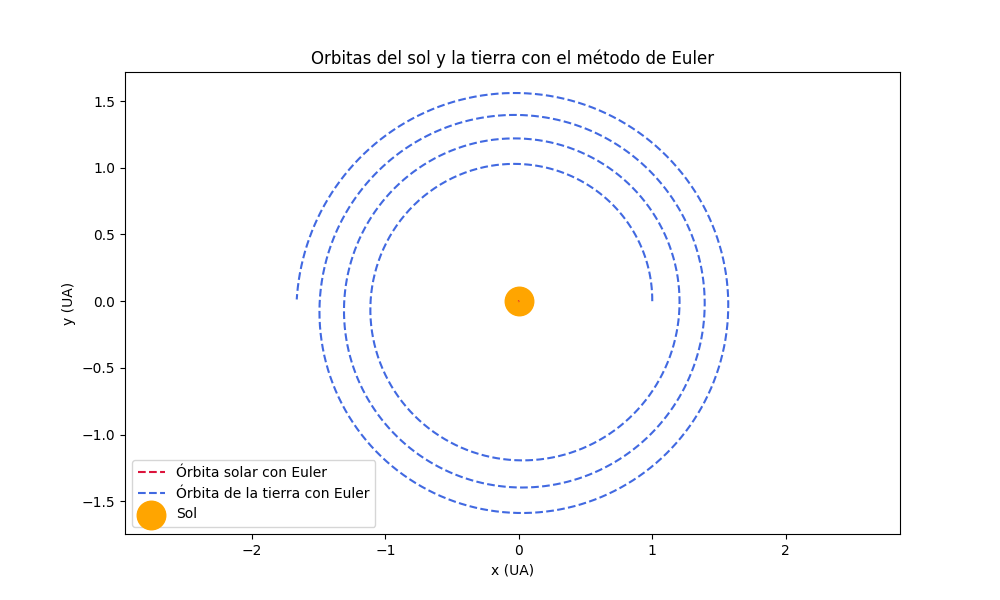
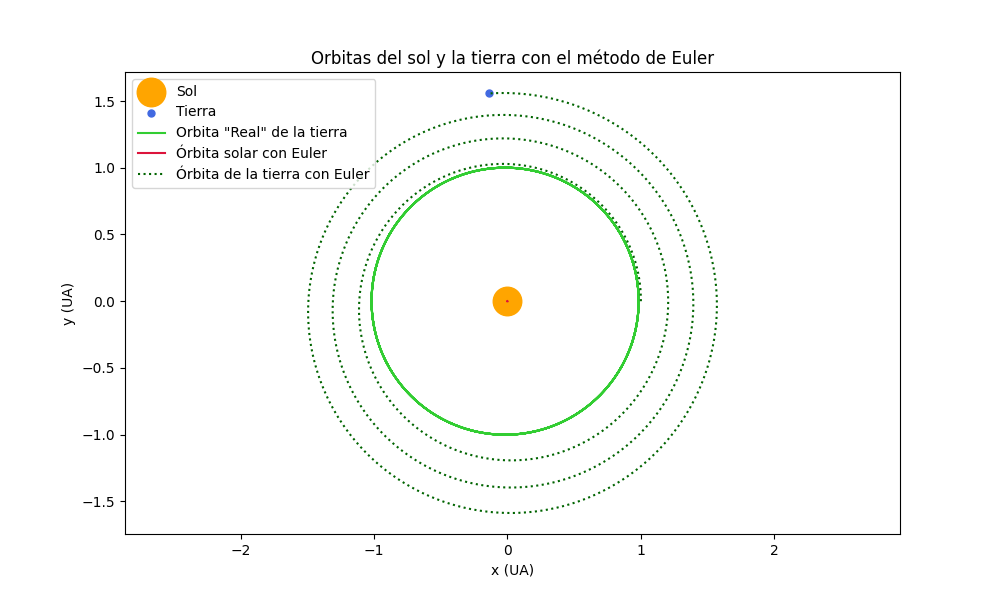
Added the observational orbit from NASA values

diff --git a/S6/S6CASA/ParraCristian_S6CASA_ODE2_PLANETAS.cpp b/S6/S6CASA/ParraCristian_S6CASA_ODE2_PLANETAS.cpp
@@ -4,7 +4,7 @@
 #include <cmath>
 #include <string>
 // Aún tiene errores aaaa.
-double Orbita_x(double uu, double ww, double GG, double M0=1){
+double Orbita_U(double uu, double ww, double GG, double M0=1){
     // uu: Las coordenadas en donde se calcula la dirección, es decir,
     // si es la coordenada x entonces es en dirección del vector unitario i.
     // ww: La coordenada complementaria con la que se forma el vector r.
@@ -24,7 +24,7 @@ double Euler_V(double uu, double ww, double vv, double GG, double hh){
     // vv : La primer derivada de la función en el paso n
     // ww : El valor de la coordenada complementaria en el paso n
     // hh : El tamaño de paso inicialmente definido
-    double vv_n1 = vv + hh*Orbita_x(uu, ww, GG);
+    double vv_n1 = vv + hh*Orbita_U(uu, ww, GG);
   return vv_n1;
 }
 
@@ -40,7 +40,7 @@ double Leap_Frog_V(double uu_nn12, double ww_nn12, double vv, double GG,double h
     // uu : El valor de la función en el paso n actual
     // vv : El valor de la velocidad en el paso n+1/2 actual
     // hh : El tamaño de paso inicialmente definido
-    double vv_n32 = vv + hh*Orbita_x(uu_nn12, ww_nn12, GG);   // vv_n+3/2
+    double vv_n32 = vv + hh*Orbita_U(uu_nn12, ww_nn12, GG);   // vv_n+3/2
     return vv_n32;
 }
 
@@ -63,7 +63,7 @@ int main(){
     std::array<double, N> vx_Euler;
     std::array<double, N> vy_Euler;
 
-    // Arrays para el método de Euler
+    // Arrays para el método de Leap Frog
     std::array<double, N> x_LF;
     std::array<double, N> y_LF;
     std::array<double, N> vx_LF;
@@ -71,6 +71,12 @@ int main(){
 
     // Caso 2 | Sol en movimiento:
     // Usaré el factor de escala M/Mtotal sobre los arrays anteriores
+
+    // Datos observacionales:
+    std::array<double, N> x_obs;
+    std::array<double, N> y_obs;
+    std::array<double, N> vx_obs;
+    std::array<double, N> vy_obs;
 
     // Array del tiempo
     std::array<double, N> t;
@@ -90,6 +96,11 @@ int main(){
     double fe_T = 1.0/(1.0 + Mt);    // Factor de escala para la tierra
     double fe_S = -Mt/(1.0 + Mt);     // Factor de escala para el sol
 
+    // Comparación órbita real:
+    double excentricidad = 0.01671022;      // Dato de Nasa Planetary Factsheet
+    double perihelio = 1.0*(1.0-excentricidad); // Suponiendo que se situa en el eje x
+    double vel_peri = 2.0*M_PI*std::sqrt((1.0+excentricidad)/(1.0-excentricidad)); // Velocidad inicial
+
     t[0] = 0;
     // Caso 1:
     x_Euler[0] = x0;
@@ -99,9 +110,15 @@ int main(){
     
     x_LF[0] = x0;
     y_LF[0] = y0;
-    vx_LF[0] = vx0 + h * Orbita_x(x0, y0, G_0)/2.0;
-    vy_LF[0] = vy0 + h * Orbita_x(y0, x0, G_0)/2.0;
+    vx_LF[0] = vx0 + h * Orbita_U(x0, y0, G_0)/2.0;
+    vy_LF[0] = vy0 + h * Orbita_U(y0, x0, G_0)/2.0;
 
+    // Datos observacionales:
+    x_obs[0] = perihelio;
+    y_obs[0] = y0;
+    vx_obs[0] = vx0 + h * Orbita_U(perihelio, y0, G_0)/2.0;
+    vy_obs[0] = vel_peri + h * Orbita_U(y0, perihelio, G_0)/2.0;
+    
     
     // Escritura de los arrays
     for (int i = 0; i < N-1; i++){
@@ -123,6 +140,13 @@ int main(){
         // Caso 2:
         // Aplico los factores de escala sobre los valores anteriores
         // en la escritura de "Planetas.dat" 
+
+        // Datos observacionales:
+        x_obs[i+1] = Leap_Frog_U(x_obs[i], vx_obs[i], h);
+        y_obs[i+1] = Leap_Frog_U(y_obs[i], vy_obs[i], h);
+
+        vx_obs[i+1] = Leap_Frog_V(x_obs[i+1], y_obs[i+1], vx_obs[i], G_0, h);
+        vy_obs[i+1] = Leap_Frog_V(y_obs[i+1], x_obs[i+1], vy_obs[i], G_0, h);
         }
 
     // Se guardan los archivos en Planetas.dat
@@ -130,6 +154,7 @@ int main(){
     // Caso 1 | tiempo , Euler x, Euler y, LeapFrog x, LeapFrog y.
     // Caso 2 | Euler x sol, Euler y sol, Euler x tierra, Euler y tierra
     // Leapfrog x sol, Leapfrog y sol, Leapfrog x tierra, Leapfrog y tierra.
+    // Observacionales | x observacional, y observacional.
 
     std::ofstream outfile;
     outfile.open("Planetas.dat");
@@ -142,7 +167,8 @@ int main(){
     << fe_S*x_Euler[p] << " , " << fe_S*y_Euler[p] << " , "
     << fe_T*x_Euler[p] << " , " << fe_T*y_Euler[p] << " , "
     << fe_S*x_LF[p] << " , " << fe_S*y_LF[p]<< " , "
-    << fe_T*x_LF[p] << " , " << fe_T*y_LF[p]<< "\n";
+    << fe_T*x_LF[p] << " , " << fe_T*y_LF[p]<< " , "
+    << x_obs[p] << " , " << y_obs[p]<< "\n";
     }
 
     outfile.close();

diff --git a/S6/S6CASA/PLOTS_CristianParra_S6CASA_ODE2_PLANETAS.py b/S6/S6CASA/PLOTS_CristianParra_S6CASA_ODE2_PLANETAS.py
@@ -21,6 +21,8 @@ Sol_x_LeapFrog = Datos[:,9]
 Sol_y_LeapFrog = Datos[:,10]
 Tierra_x_LeapFrog = Datos[:,11]
 Tierra_y_LeapFrog = Datos[:,12]
+Observacional_x = Datos[:,13]
+Observacional_y = Datos[:,14]
 
 # Inicialización gráficas
 fig0, ax0 = plt.subplots(figsize=(10,6))
@@ -30,8 +32,10 @@ fig3, ax3 = plt.subplots(figsize=(10,6))
 
 # Caso 1 | Sol estático:
 # Gráfica de la órbita mediante el método de Euler
-ax0.plot(x_Euler, y_Euler, label="Órbita con Euler", ls = "--", color = "crimson")
 ax0.scatter(0, 0, s = 422, color = "orange", label = "Sol")
+ax0.scatter(x_Euler[-1], y_Euler[-1], s = 25, color = "royalblue", label = "Tierra")
+ax0.plot(Observacional_x, Observacional_y, label = 'Orbita "Real"', color = "limegreen")
+ax0.plot(x_Euler, y_Euler, label="Órbita con Euler", ls = ":", color = "indigo")
 ax0.axis("equal")
 ax0.set_xlabel("x (UA)")
 ax0.set_ylabel("y (UA)")
@@ -40,8 +44,10 @@ ax0.legend()
 fig0.savefig("PLOTS_CristianParra_S6CASA_ODE2_Planetas_E.png")
 
 # Gráfica de la órbita mediante el método de Leap Frog
-ax1.plot(x_LeapFrog, y_LeapFrog, label="Órbita con Leap Frog", ls = ":", color = "indigo")
 ax1.scatter(0, 0, s = 422, color = "orange", label = "Sol")
+ax1.scatter(x_LeapFrog[-1], y_LeapFrog[-1], s = 25, color = "royalblue", label = "Tierra")
+ax1.plot(Observacional_x, Observacional_y, label = 'Orbita "Real"', color = "limegreen")
+ax1.plot(x_LeapFrog, y_LeapFrog, label="Órbita con Leap Frog", ls = ":", color = "indigo")
 ax1.axis("equal")
 ax1.set_xlabel("x (UA)")
 ax1.set_ylabel("y (UA)")
@@ -51,9 +57,11 @@ fig1.savefig("PLOTS_CristianParra_S6CASA_ODE2_Planetas_LF.png")
 
 # Caso 2 | Sol moviendose:
 # Gráfica de las órbitas mediante el método de Euler
-ax2.plot(Sol_x_Euler, Sol_y_Euler, label="Órbita solar con Euler", ls = "--", color = "crimson")
-ax2.plot(Tierra_x_Euler, Tierra_y_Euler, label="Órbita de la tierra con Euler", ls = "--", color = "royalblue")
-ax2.scatter(0, 0, s = 422, color = "orange", label = "Sol")
+ax2.scatter(Sol_x_Euler[-1], Sol_y_Euler[-1], s = 422, color = "orange", label = "Sol")
+ax2.scatter(Tierra_x_Euler[-1], Tierra_y_Euler[-1], s = 25, color = "royalblue", label = "Tierra")
+ax2.plot(Observacional_x, Observacional_y, label = 'Orbita "Real" de la tierra', color = "limegreen")
+ax2.plot(Sol_x_Euler, Sol_y_Euler, label="Órbita solar con Euler", color = "crimson")
+ax2.plot(Tierra_x_Euler, Tierra_y_Euler, label="Órbita de la tierra con Euler", ls = ":", color = "darkgreen")
 ax2.axis("equal")
 ax2.set_xlabel("x (UA)")
 ax2.set_ylabel("y (UA)")
@@ -62,9 +70,11 @@ ax2.legend()
 fig2.savefig("PLOTS_CristianParra_S6CASA_ODE2_Planetas_E_Sol.png")
 
 # Gráfica de las órbitas mediante el método de Leap Frog
-ax3.plot(Sol_x_LeapFrog, Sol_y_LeapFrog, label="Órbita solar con Leap Frog", ls = ":", color = "indigo")
+ax3.scatter(Sol_x_LeapFrog[-1], Sol_y_LeapFrog[-1], s = 422, color = "orange", label = "Sol")
+ax3.scatter(Tierra_x_LeapFrog[-1], Tierra_y_LeapFrog[-1], s = 25, color = "royalblue", label = "Tierra")
+ax3.plot(Observacional_x, Observacional_y, label = 'Orbita "Real" de la tierra', color = "limegreen")
+ax3.plot(Sol_x_LeapFrog, Sol_y_LeapFrog, label="Órbita solar con Leap Frog", color = "crimson")
 ax3.plot(Tierra_x_LeapFrog, Tierra_y_LeapFrog, label="Órbita de la tierra con Leap Frog", ls = ":", color = "darkgreen")
-ax3.scatter(0, 0, s = 422, color = "orange", label = "Sol")
 ax3.axis("equal")
 ax3.set_xlabel("x (UA)")
 ax3.set_ylabel("y (UA)")
